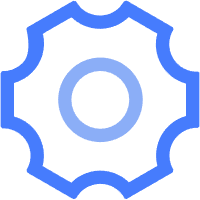
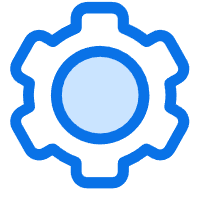
perf: 替换部分图片资源

diff --git a/src/renderer/src/App.vue b/src/renderer/src/App.vue
@@ -46,7 +46,7 @@
         <Dropdown :items="patchSettingsItems">
           <template #trigger="{ isOpen }">
             <button class="nav-btn">
-              <img :src="budingImg" />
+              <img :src="shezhiImg" />
               <span class="nav-text">设置</span>
               <div class="dropdown-icon" :class="{ rotated: isOpen }">
                 <svg width="12" height="12" viewBox="0 0 12 12" fill="none">
@@ -196,7 +196,7 @@ const patchSettingsItems = computed<DropdownItem[]>(() => [
     onClick: () => (showSettings.value = true)
   },
   {
-    label: 'MOD',
+    label: '补丁',
     icon: budingImg,
     onClick: () => (showPakModal.value = true)
   },
